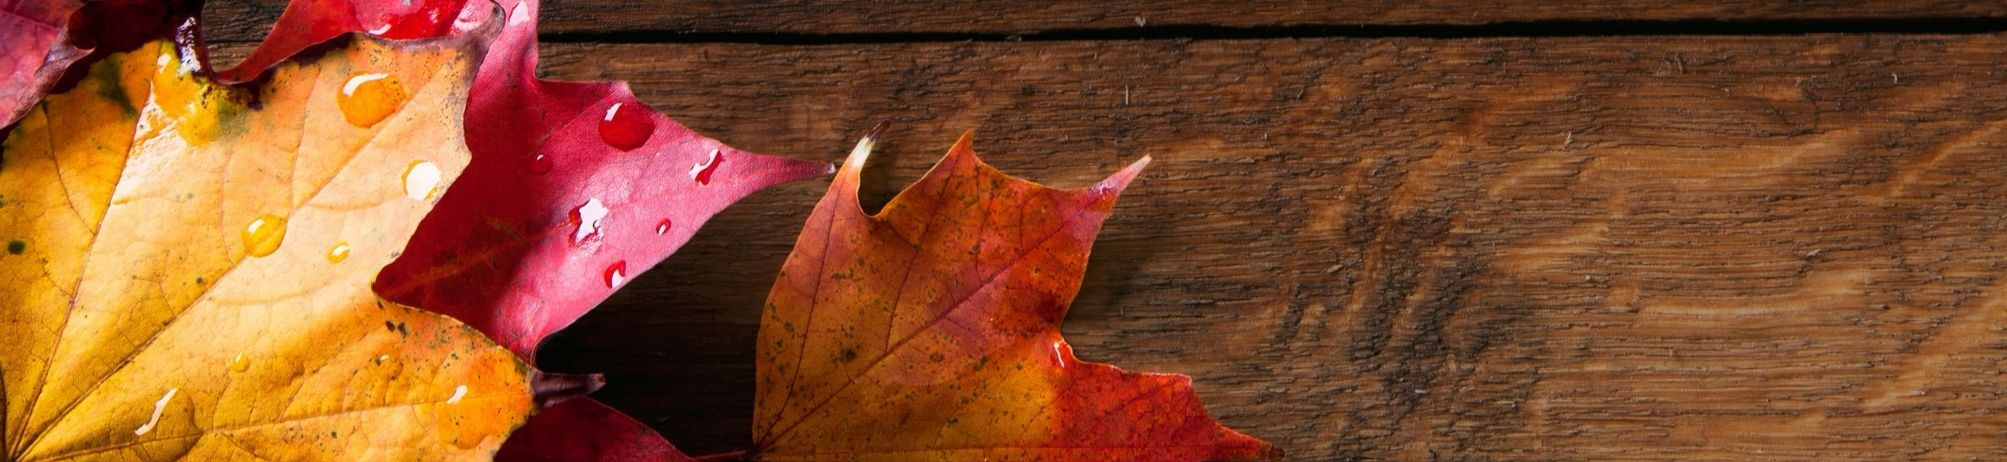
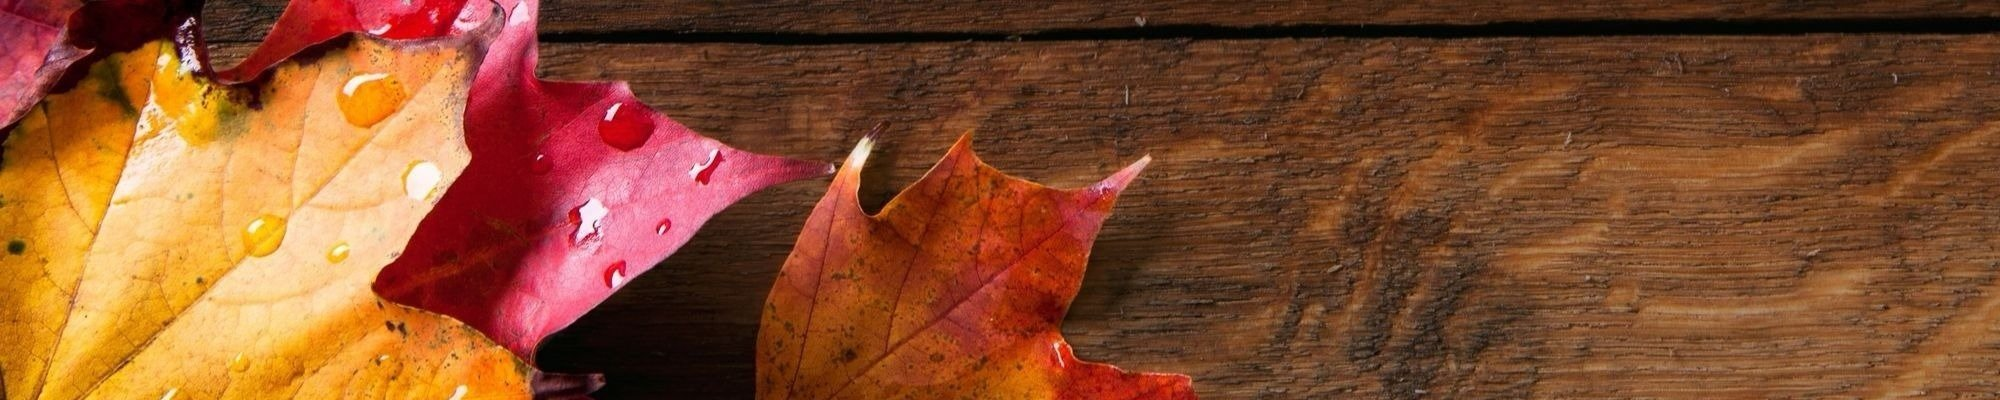
carousel images sized for mobile

diff --git a/index.html b/index.html
@@ -50,7 +50,7 @@
                     </div>
 
                     <div class="item">
-                        <img src="spring1.jpg">
+                        <img src="spring.jpg">
                     </div>
 
                     <div class="item">

diff --git a/style.css b/style.css
@@ -17,7 +17,7 @@ body{
 
 #caro{
     width: 100%;
-    height: 300px;
+    height: 100%;
     -webkit-box-shadow: 2px 2px 4px 1px rgba(235, 235, 235, 0.973);
     box-shadow: 2px 2px 4px 1px #fff;
 }
